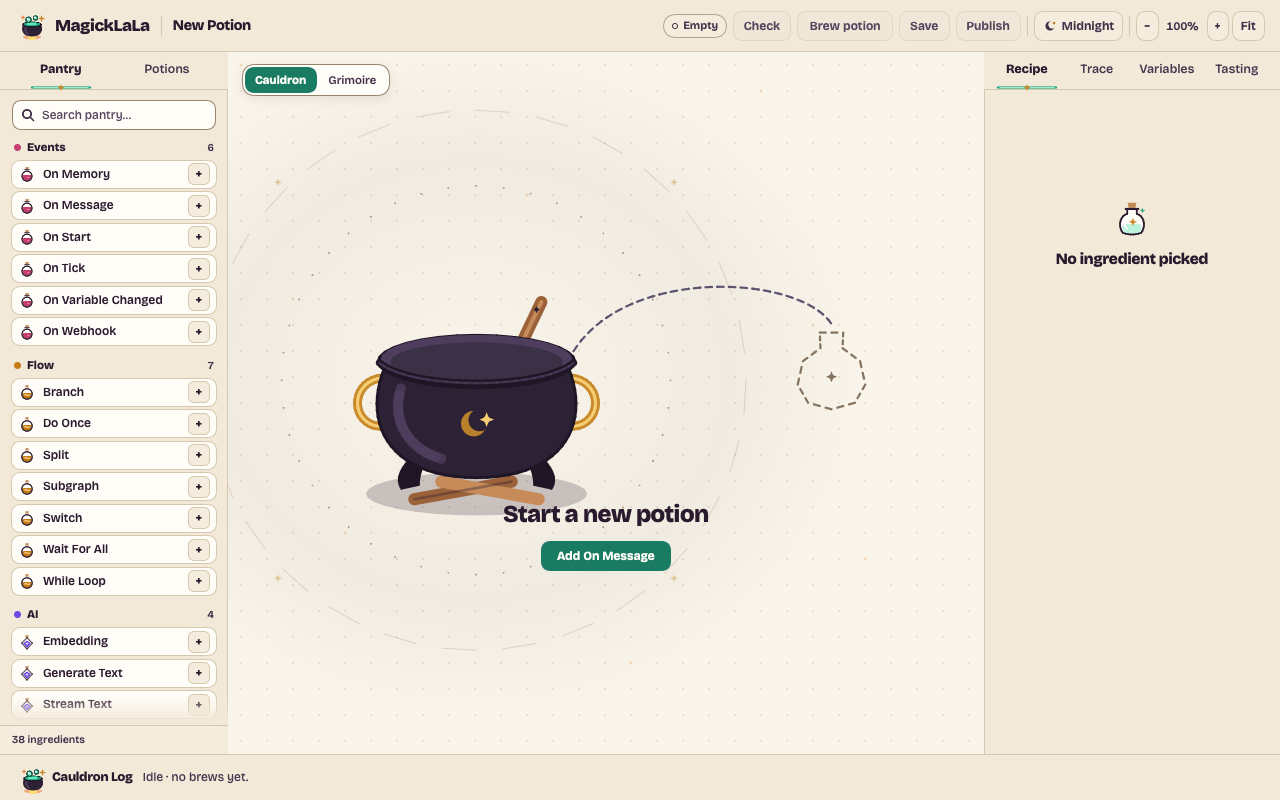
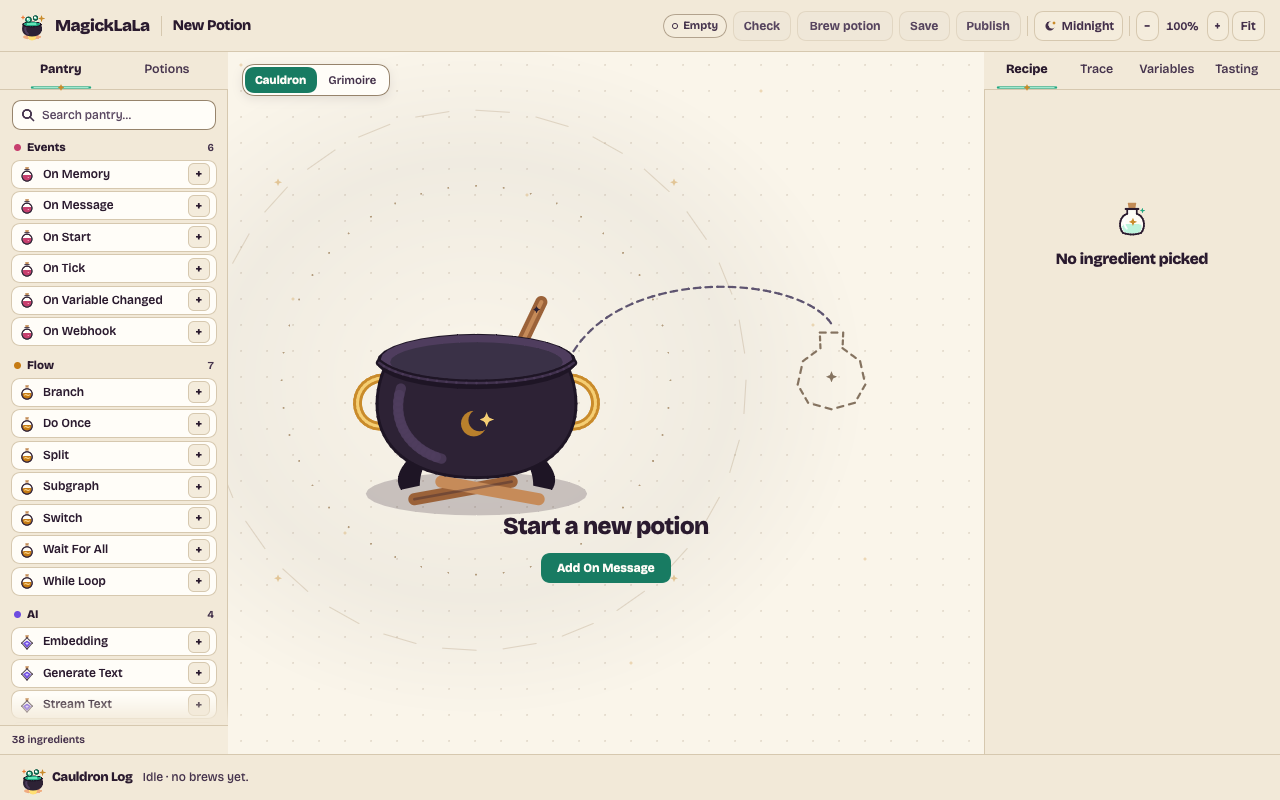
fix(canvas,studio): a bottle looks full only when its step ran, the potion colour follows the real run order, new nodes search a ring for a free spot, the empty-pot box sits clear of the pot; screenshots regenerated

Changed region(s): [[0.375, 0.625, 0.5625, 0.75]]

diff --git a/crates/magicklala-canvas/src/cauldron.rs b/crates/magicklala-canvas/src/cauldron.rs
@@ -62,11 +62,16 @@ fn pouring_cards<'a>(state: &'a CanvasState, plan: &'a BrewPlan) -> impl Iterato
         .filter(|(_, card)| !state.has_run() || matches!(card.status, ExecutionStatus::Succeeded | ExecutionStatus::Running))
 }
 
-pub fn bottle_filled(state: &CanvasState, _bottle: &NodeCardModel) -> bool {
-    cauldron_mood(state) == CauldronMood::Brewed
+pub fn bottle_filled(state: &CanvasState, bottle: &NodeCardModel) -> bool {
+    bottle.status == ExecutionStatus::Succeeded || (!state.has_run() && state.last_brew.is_none() && cauldron_mood(state) == CauldronMood::Brewed)
 }
 
 pub fn potion_tint(state: &CanvasState, plan: &BrewPlan) -> Option<Color> {
+    if state.has_run()
+        && let Some(last) = pouring_cards(state, plan).filter(|(_, card)| card.step_order.is_some()).max_by_key(|(_, card)| card.step_order)
+    {
+        return Some(category_tone(&last.1.category, state.light).liquid);
+    }
     let liquids: Vec<Color> = pouring_cards(state, plan).map(|(_, card)| category_tone(&card.category, state.light).liquid).collect();
     brew_tint(&liquids)
 }

diff --git a/crates/magicklala-canvas/src/view.rs b/crates/magicklala-canvas/src/view.rs
@@ -483,7 +483,8 @@ pub(crate) fn potion_stand_view<S: 'static>(
     let bottled = state.release_badge.is_some();
     let sealed_vintage = bottled && !matches!(mood, CauldronMood::Brewed | CauldronMood::Simmering | CauldronMood::Hexed | CauldronMood::Empty);
     let bottle_h = 104.0;
-    let bottle_art = canvas(potion_bottle_shape(mood, state.light, width, bottle_h, bottled, tint)).key("hero-potion-bottle").size(width, bottle_h);
+    let art_mood = if mood == CauldronMood::Brewed && !crate::cauldron::bottle_filled(state, output) { CauldronMood::Ready } else { mood };
+    let bottle_art = canvas(potion_bottle_shape(art_mood, state.light, width, bottle_h, bottled, tint)).key("hero-potion-bottle").size(width, bottle_h);
     let spell_label = if state.spell_name.is_empty() { "Potion" } else { state.spell_name.as_str() };
     let out_title = primary_output.map_or("Bottled Potion", |c| c.title.as_str());
     let out_kind = primary_output.map_or("io/send_message", |c| c.kind.as_str());

diff --git a/crates/magicklala-canvas/src/model.rs b/crates/magicklala-canvas/src/model.rs
@@ -328,10 +328,12 @@ impl CanvasState {
                     || other.position[1] + other.size[1] + 24.0 <= at[1]
             })
         };
-        (0..40)
-            .map(|step| [near[0] + (step / 8) as f32 * (size[0] + 32.0), near[1] + ((step % 8) as f32 - 0.0) * 64.0 * if step % 2 == 0 { 1.0 } else { -1.0 }])
-            .find(|at| clear(*at))
-            .unwrap_or(near)
+        let ring = |step: usize| {
+            let lap = (step / 8 + 1) as f32;
+            let angle = (step % 8) as f32 * std::f32::consts::FRAC_PI_4;
+            [near[0] + angle.cos() * lap * (size[0] + 32.0) * 0.5, near[1] + angle.sin() * lap * (size[1] + 32.0)]
+        };
+        std::iter::once(near).chain((0..48).map(ring)).find(|at| clear(*at)).unwrap_or(near)
     }
 
     pub fn move_node(&mut self, id: &NodeId, position: [f32; 2]) -> bool {

diff --git a/crates/magicklala-studio/src/view.rs b/crates/magicklala-studio/src/view.rs
@@ -319,7 +319,7 @@ fn empty_canvas_overlay(app: &StudioApp, t: &HearthPalette) -> El {
     let size = app.canvas_size();
     let card_w = 400.0_f32.min(size.0 - 32.0).max(240.0);
     let x = ((size.0 - card_w) * 0.5).max(16.0);
-    let y = (size.1 * 0.62).min(size.1 - 152.0).max(216.0);
+    let y = (size.1 * 0.62 + 12.0).min(size.1 - 152.0).max(228.0);
     col().key("empty-canvas").w(card_w).px(16.0).py(12.0).items_center().gap(8.0).absolute(x, y).child(heading("Start a new potion", 24.0, 800.0, t.ink)).child(
         row().pt(4.0).child(sized_button("empty-add-trigger", "Add On Message", true, false, 16.0, t, |app| {
             app.spawn("event/on_message");
